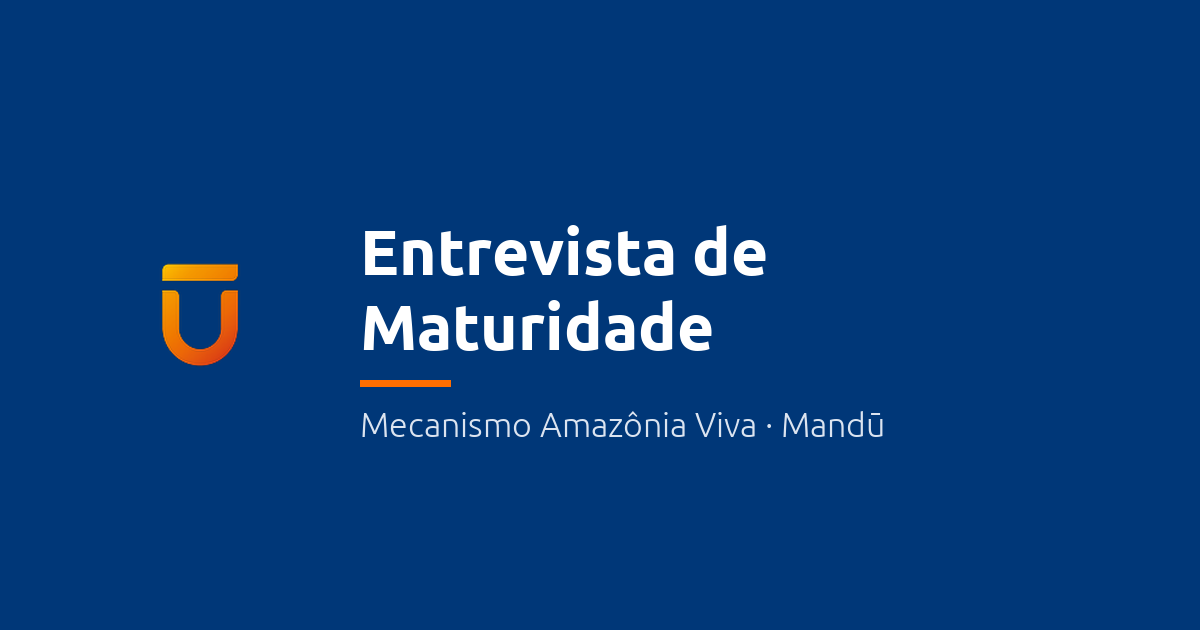
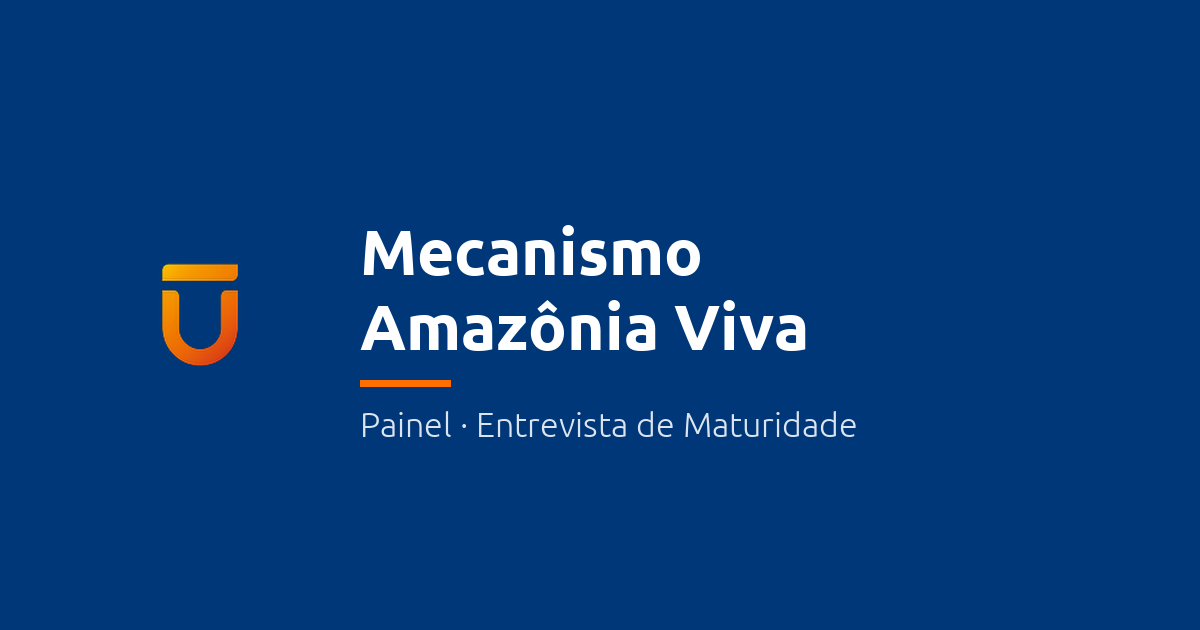
pagina de compartilhamento MAV

Changed region(s): [[0.3083, 0.4825, 0.6783, 0.573], [0.3083, 0.3619, 0.6475, 0.4524], [0.3083, 0.6333, 0.74, 0.6937]]

diff --git a/index.html b/index.html
@@ -3,12 +3,12 @@
 <head>
 <meta charset="utf-8">
 <meta name="viewport" content="width=device-width, initial-scale=1">
-<title>Entrevista de Maturidade · MAV</title>
-<meta name="description" content="Avaliação de maturidade das organizações do Mecanismo Amazônia Viva · Mandū Inovação Social">
+<title>Mecanismo Amazônia Viva · Mandū</title>
+<meta name="description" content="Painel de acompanhamento e Entrevista de Maturidade do Mecanismo Amazônia Viva · Mandū Inovação Social">
 <meta property="og:type" content="website">
 <meta property="og:site_name" content="Mandū Inovação Social">
-<meta property="og:title" content="Entrevista de Maturidade · MAV">
-<meta property="og:description" content="Avaliação de maturidade das organizações do Mecanismo Amazônia Viva. Entre com a conta @mandusocial.org.">
+<meta property="og:title" content="Mecanismo Amazônia Viva · Mandū">
+<meta property="og:description" content="Painel de acompanhamento e Entrevista de Maturidade do programa. Entre com a sua conta.">
 <meta property="og:url" content="https://tsferraro.github.io/mav/">
 <meta property="og:image" content="https://tsferraro.github.io/mav/icones/card-mav-1200x630.png">
 <meta property="og:image:width" content="1200">
@@ -18,24 +18,33 @@
 <link rel="apple-touch-icon" href="icones/u-mandu-180.png">
 <meta name="theme-color" content="#003778">
 <style>
-:root{--azul:#003778;--ink:#19222F;--ink-2:#4A5566;--laranja-txt:#B24D00;--fundo:#EEF1F6}
+:root{--azul:#003778;--ink:#19222F;--ink-2:#4A5566;--laranja-txt:#B24D00;--fundo:#EEF1F6;--linha:#dde2ec}
 *{box-sizing:border-box}
 body{margin:0;min-height:100vh;display:grid;place-items:center;background:var(--fundo);color:var(--ink);font-family:Ubuntu,system-ui,-apple-system,"Segoe UI",sans-serif;padding:16px}
-main{max-width:420px;width:100%;background:#fff;border:1px solid #dde2ec;border-radius:16px;padding:32px 24px;text-align:center}
+main{max-width:460px;width:100%;background:#fff;border:1px solid var(--linha);border-radius:16px;padding:32px 20px 24px;text-align:center}
 img{width:88px;height:88px}
 h1{font-size:24px;margin:16px 0 4px;line-height:1.2}
-p{margin:0 0 24px;color:var(--ink-2);font-size:15px;line-height:1.5}
-a.bt{display:block;background:var(--azul);color:#fff;text-decoration:none;font-weight:700;border-radius:10px;padding:14px 18px;font-size:16px;min-height:48px}
-small{display:block;margin-top:16px;color:var(--ink-2);font-size:13px}
+.sub{margin:0 0 24px;color:var(--ink-2);font-size:15px;line-height:1.5}
+.cartoes{display:grid;gap:12px;text-align:left}
+a.cartao{display:block;text-decoration:none;color:var(--ink);background:#fff;border:2px solid var(--azul);border-radius:12px;padding:16px;min-height:48px}
+a.cartao:hover,a.cartao:focus-visible{background:#F3F6FB}
+a.cartao:focus-visible{outline:3px solid #6FA3E0;outline-offset:2px}
+.cartao b{display:block;color:var(--azul);font-size:18px;line-height:1.25}
+.cartao span{display:block;margin-top:4px;color:var(--ink-2);font-size:15px;line-height:1.45}
+.cartao em{display:block;margin-top:10px;color:var(--laranja-txt);font-style:normal;font-weight:700;font-size:15px}
+small{display:block;margin-top:20px;color:var(--ink-2);font-size:13px;line-height:1.45}
 </style>
 </head>
 <body>
 <main>
 <img src="icones/u-mandu-180.png" alt="Mandū">
-<h1>Entrevista de Maturidade</h1>
-<p>Mecanismo Amazônia Viva</p>
-<a class="bt" href="https://script.google.com/a/macros/mandusocial.org/s/AKfycbwqd5XBMrEbPaXzBL9LblPbOQc0mk3s9ZqLdOudTtZknLk5sp5_ZlVMwv9zx955VTxI/exec">Abrir o app</a>
-<small>Entre com a sua conta @mandusocial.org</small>
+<h1>Mecanismo Amazônia Viva</h1>
+<p class="sub">Mandū Inovação Social · escolha o app</p>
+<div class="cartoes">
+<a class="cartao" href="https://script.google.com/a/macros/mandusocial.org/s/AKfycbxTfNnovk3_GTrr38_eZ1d4Gf6hr84dM4zwD24md92Rb-lm2-JMOpKewn_SWs1YouY/exec"><b>Painel de acompanhamento</b><span>Portfólio, one page e reuniões das organizações do programa.</span><em>Abrir o Painel →</em></a>
+<a class="cartao" href="https://script.google.com/a/macros/mandusocial.org/s/AKfycbwqd5XBMrEbPaXzBL9LblPbOQc0mk3s9ZqLdOudTtZknLk5sp5_ZlVMwv9zx955VTxI/exec"><b>Entrevista de Maturidade</b><span>Notas de maturidade das organizações: entrevista, evidências e resultados por marco.</span><em>Abrir a Entrevista →</em></a>
+</div>
+<small>Painel: entre com a sua conta Google · Entrevista: conta @mandusocial.org<br>Dentro de cada app, o botão «⇄ Apps» volta a esta página.</small>
 </main>
 </body>
 </html>
